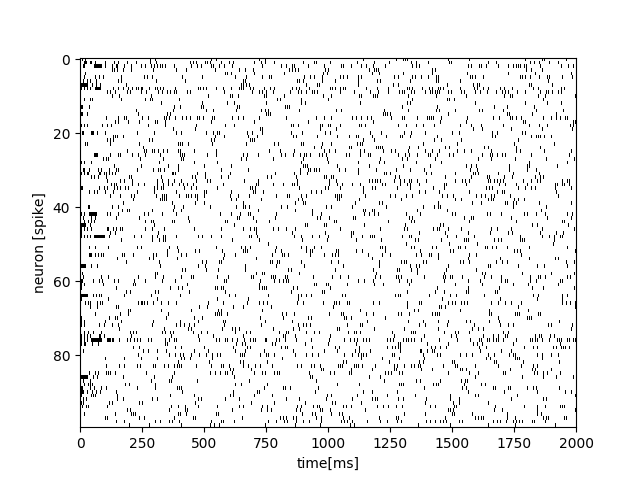
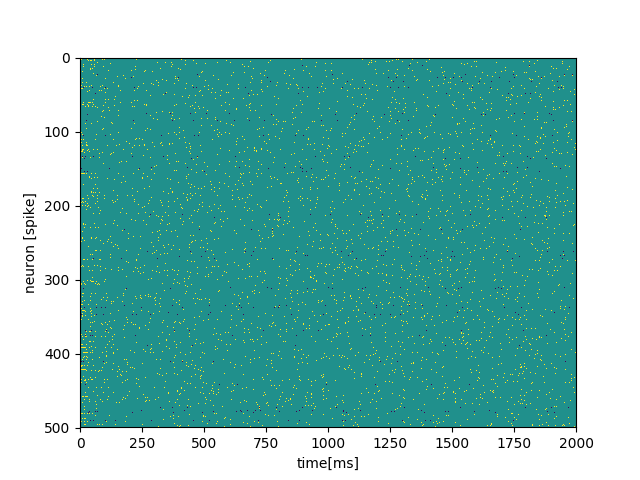
added ising

diff --git a/Izhikevich/network.py b/Izhikevich/network.py
@@ -1,35 +1,24 @@
-
-from pip import main
-with open('requirements.txt', 'r') as f:
-    for line in f:
-        print(line)
-        main(('install ' + line).split(' '))
 import networkx
 from pylab import *
 from numpy import *
 from izhikevich import Izikevich
-n = 100
-k = 30
-p = .6
-
-G = networkx.random_graphs.connected_watts_strogatz_graph(n, k, p)
-fig, ax = subplots()
-networkx.draw(G, pos = networkx.draw_circular(G))
-print(G.edges())
-show()
 
 # %%
 # - make graph
 # - for every node in the graph make a neural object with random values
 # - simulate and record the spikes
 
-def createVertices(G, v = -70, u = -65, a = .02, b = .2, c = -65, d = 2):
+def createVertices(G, v = -70, u = -65, a = .02, b = .2, c = -65, d = 2, state = 1):
     vertices = {}
     for node in G.nodes():
-        v = random.rand() * -70 + 50
+        v = (random.rand() * 70  - 20)*-1
         u = random.rand() * -65 + 15
         d = random.rand() * 2
-        vertices[node] = Izikevich(v, u, a, b, c, d)
+        if random.rand() > .9:
+            state = -1
+        else:
+            state = 1
+        vertices[node] = Izikevich(v, u, a, b, c, d, type = state)
     return vertices
 # %%
 
@@ -48,19 +37,33 @@ def simulate(G, vertices, nSteps = 1000, dt = .5):
             for neighbor in neighbors:
                 neighborCurrent += int(vertices[node].spiked)
             # add random noise + external current
-            state = vertices[node].updateState(neighborCurrent + random.rand() * 15)
+            state = vertices[node].updateState(neighborCurrent + random.randn()*15)
             # print(state)
             nextState.append(state)
         states.append(nextState)
     return states
 
+
+n = 500
+m = 1
+k = 5
+p = .9
+
+G = networkx.random_graphs.connected_watts_strogatz_graph(n, k, p)
+# G = networkx.complete_graph(200)
+# G  = networkx.random_graphs.erdos_renyi_graph(n,m)
+fig, ax = subplots()
+networkx.draw(G) #, pos = networkx.draw_circular(G))
+# print(G.edges())
+
 vertices = createVertices(G)
 r = array(simulate(G, vertices))
 cfg = {'xlabel' : 'time[ms]', 'ylabel' : 'neuron [spike]'}
 fig, ax = subplots();
-ax.imshow(r[...,-1].T, aspect ='auto', cmap = 'gray_r')
+h = ax.imshow(r[...,-1].T, aspect ='auto')
 setp(ax, **cfg)
 savefig('example.png')
-fig, ax = subplots()
-ax.plot(r[...,0])
+colorbar(h)
+# fig, ax = subplots()
+# ax.plot(r[...,0])
 show()

diff --git a/Izhikevich/izhikevich.py b/Izhikevich/izhikevich.py
@@ -1,8 +1,9 @@
 from pylab import *
 from numpy import *
+# TODO: the update rule does not work as intended; i.e. the voltage can be higher than the threshold
 
 class Izikevich:
-    def __init__(self, v, u, a, b, c, d, dt = 1, threshold = 30):
+    def __init__(self, v, u, a, b, c, d, dt = 1, threshold = 30, type = 1):
         # assign everything to class attributes
         [setattr(self, key, value) for key, value in locals().items() if key != 'self']
         self.spiked = 0
@@ -11,17 +12,18 @@ class Izikevich:
         if self.v >= self.threshold:
             self.v = self.c
             self.u += self.d
-            self.spiked = 1 # output to other neurons
+            self.spiked = 1 * self.type # output to other neurons
         else:
             dv = (.04 * self.v +  5 )* self.v + 140 - self.u + I
             du = self.a * (self.b * self.v - self.u)
             self.v += dv * self.dt
             self.u += du * self.dt
             self.spiked = 0
-            if self.v >= self.threshold:
-                self.v = self.c
-                self.u += self.d
-                self.spiked = 1 # output to other neurons
+
+        if self.v >= self.threshold:
+            self.v = self.c
+            self.u += self.d
+            self.spiked = 1 * self.type # output to other neurons
 
         return [self.v, self.u, self.spiked]
 
@@ -35,9 +37,9 @@ if __name__ == '__main__':
     u = b * v
 
     nSteps = 1000
-    dt     = .1
+    dt     = .5
     time   = arange(0, nSteps, dt)
-    I      =  random.randn(len(time)) * 35
+    I      =  random.randn(len(time)) * 15
     neuron = Izikevich(v, u, a, b, c, d, dt)
     uv     = array([neuron.updateState(i) for i in I])
     fig, ax = subplots()

diff --git a/Izhikevich/tmp.py b/Izhikevich/tmp.py
@@ -1,0 +1,64 @@
+# -*- coding: utf-8 -*-
+"""
+Created on Mon Apr 25 11:47:11 2016
+
+@author: arthur
+
+Izhikevich neuron - Original.
+"""
+
+from pylab import *
+from numpy import *
+#1) Initialize parameters.
+tmax = 1000
+dt = 0.001
+#1.1) Neuron/Network pairs.
+a = 0.02
+b = 0.2
+c = -65
+d = 2
+
+#1.2) Input pairs
+lapp = 4
+tr = array([200, 700])/dt  #stm time
+
+
+#2) Reserve memory
+T = int(ceil(tmax / dt))
+# print(T)
+v = zeros(T)
+u = zeros(T)
+v[0] = -70 #Resting potential
+u[0] = -14 #Steady state
+
+#3) For-loop over time.
+for t in arange(T-1):
+#3.1) Get input.
+    # if t > tr[0] and t < tr[1]:
+    if tr[0] < t < tr[1]:
+        l = random.randn()*100
+    else:
+        l = 0
+    if v[t] < 35:
+        #3.2) Update DOE.
+        dv = (0.04*v[t]+5)*v[t]+140-u[t]
+        v[t+1] = v[t]+(dv+l)*dt
+        du = a*(b*v[t]-u[t])
+        u[t+1] = u[t] + dt*du
+    else:
+        #3.3) Spike!
+        v[t] = 35
+        v[t+1] = c
+        u[t+1] = u[t] + d
+
+#4) Plot voltage trace
+figure()
+tvec = arange(0, tmax, dt)
+print(tvec.shape, v.shape,T)
+plot(tvec, v, 'b', label='Voltage trace')
+xlabel('Time[ms]')
+ylabel('Membrane voltage [mV]')
+title('A single qIF neuron with current step input')
+show()
+
+# print("FIN")

diff --git a/Izhikevich/tmp2.py b/Izhikevich/tmp2.py
@@ -1,0 +1,39 @@
+from pylab import *
+from numpy import *
+
+from sklearn import datasets
+from sklearn.naive_bayes import GaussianNB
+from pylab import *
+from mpl_toolkits.mplot3d import axes3d
+
+iris = datasets.load_iris()
+parameters = []
+for classs in unique(iris.target):
+    idx = where(iris.target == classs)[0]
+    data = iris.data[idx, :]
+    mu, sigma = data.mean(axis = 0), data.std(axis = 0)
+
+    parameters.append((mu, sigma))
+parameters = array(parameters)
+
+# %%
+def gausProb(x, mu, sigma):
+    norm  =  (sqrt(2*pi) * sqrt(sigma.T.dot(sigma)))**(-1)
+    p     = exp(-((x - mu).T.dot(x-mu)) / sigma.T.dot(sigma))
+    return p * norm
+
+x = iris.data[0,:]
+mu, sigma = parameters[0,...]
+res = [ [] for i in range(len(parameters))]
+print(len(res))
+for x, label in zip(iris.data, iris.target):
+    y = gausProb(x, *parameters[label, :])
+    print(y)
+    res[label].append(y)
+res = array(res)
+
+print(res.shape)
+# %%
+fig, ax = subplots();
+ax.plot(res.T.max(1))
+show()

diff --git a/Izhikevich/setup.py b/Izhikevich/setup.py
@@ -1,0 +1,4 @@
+from setuptools import setup
+with open('requirements.txt', 'r') as f:
+    for line in f:
+        setup(require = line)

diff --git a/Izhikevich/README.md b/Izhikevich/README.md
@@ -2,4 +2,5 @@
 Because I was bored I made this simple neural model based on the izhikevich paper in python using object based approach.
 
 Example:
-![sample](sample.png)
+
+![sample](example.png)
